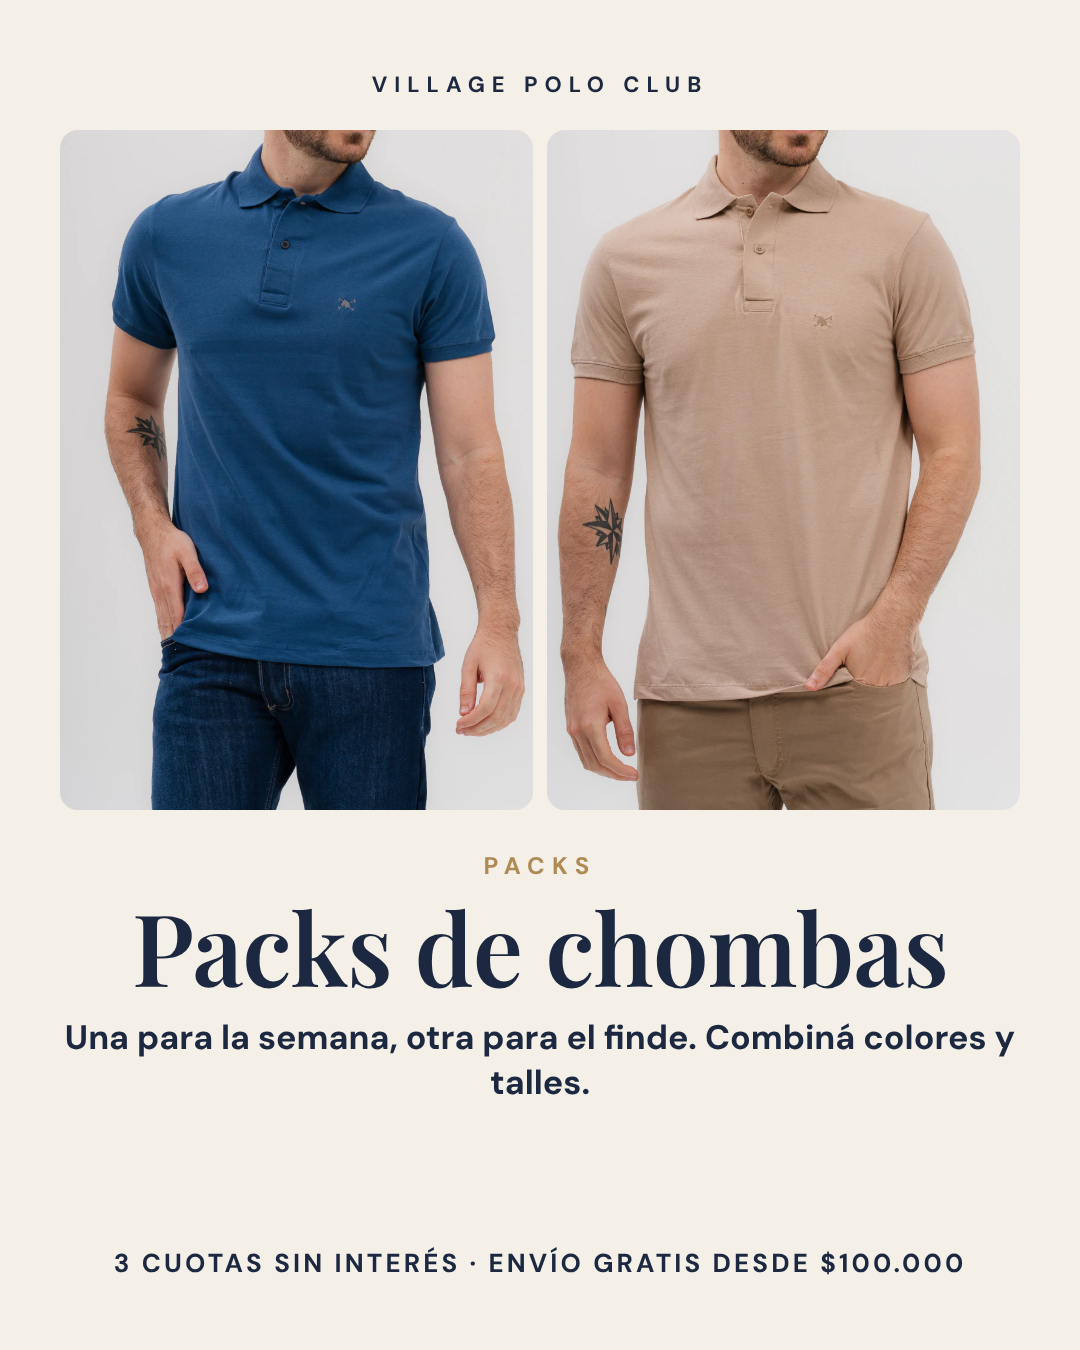
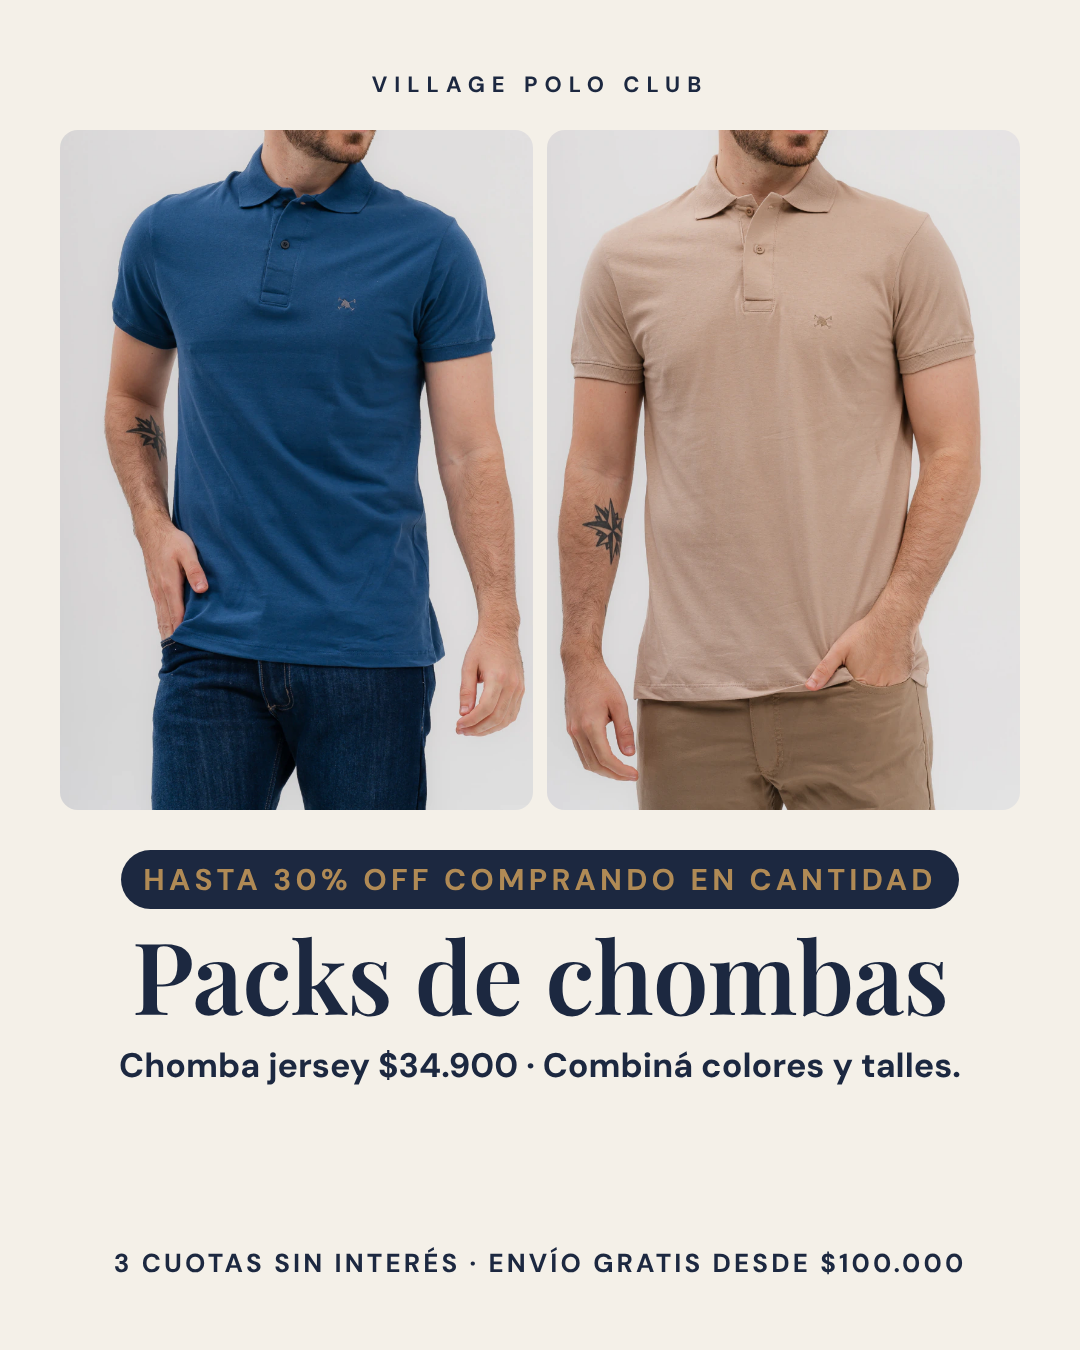
Village: Packs de chombas con Hasta 30% OFF y precio
Claude-Session: https://claude.ai/code/session_01BwB1NJ45564dBMrvfqcTE9

Changed region(s): [[0.0611, 0.6222, 0.9472, 0.8089]]

diff --git a/village-polo-club/placas/testeo-24-11/fuente/gen.py b/village-polo-club/placas/testeo-24-11/fuente/gen.py
@@ -85,14 +85,14 @@ def grid(fmt,imgs,eyebrow,h,sub,crops):
 <div style="position:absolute;top:{top+60+gh+40}px;left:60px;right:60px;text-align:center">
  <div class="ey">{eyebrow}</div><h1 style="font-size:{100 if fmt=='feed' else 116}px">{h}</h1><div class="sub">{sub}</div></div>
 <div style="position:absolute;bottom:{70 if fmt=='feed' else 250}px;left:0;right:0" class="ben">{BEN}</div>'''
-    extra=f'''.box{{border-radius:18px;overflow:hidden}}.ey{{font-size:24px;letter-spacing:.3em;font-weight:700;color:{GOLD};text-transform:uppercase;margin-bottom:14px}}
+    extra=f'''.box{{border-radius:18px;overflow:hidden}}.ey{{font-size:30px;letter-spacing:.14em;background:#1c2840;color:#fff;display:inline-block;padding:10px 22px;border-radius:40px;font-weight:700;color:{GOLD};text-transform:uppercase;margin-bottom:14px}}
 .sub{{font-size:34px;font-weight:700;margin-top:18px;color:{NAVY}}}'''
     return page(W,H,body,extra)
 C1='inset(22% 6% 0 6%)'
 P=[]
 for f in ('feed','story'):
     P+= [(f'R1-problemas-solucion-{f}',r1(f)),(f'R2-busqueda-solucion-{f}',r2(f)),(f'R3-comparacion-{f}',r3(f)),
-    (f'P1-packs-chombas-{f}',grid(f,['chomba-jersey-azul-1.webp','chomba-jersey-beige-1.webp'],'Packs','Packs de chombas','Una para la semana, otra para el finde. Combiná colores y talles.',['inset(27% 5% 0 5%)']*2)),
+    (f'P1-packs-chombas-{f}',grid(f,['chomba-jersey-azul-1.webp','chomba-jersey-beige-1.webp'],'Hasta 30% OFF comprando en cantidad','Packs de chombas','Chomba jersey $34.900 · Combiná colores y talles.',['inset(27% 5% 0 5%)']*2)),
     (f'P2-pack-x3-remeras-{f}',grid(f,['pack-x3-remeras-omz80-2.webp','pack-x3-remeras-omz80-4.webp','pack-x3-remeras-omz80-3.webp'],'Pack x3','Pack x3 remeras','El básico que más usás, de a tres.',['inset(9% 0 0 0)']*3))]
 for f in ('feed','story'):
     P+=[(f'R2b-asado-{f}',r2(f,'qué ponerme para un asado con amigos','chomba-jersey-azul-1.webp','Chomba jersey','inset(22% 6% 0 6%)','bermuda-gabardina-cintura-elastica-camel-1.webp','Bermuda de gabardina','inset(0 0 0 0)')),
